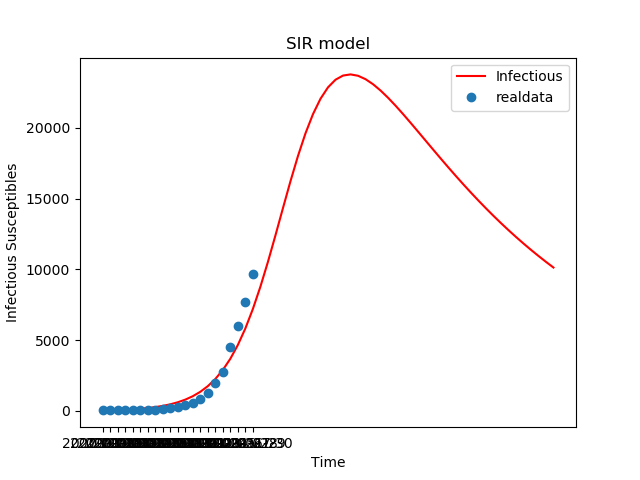
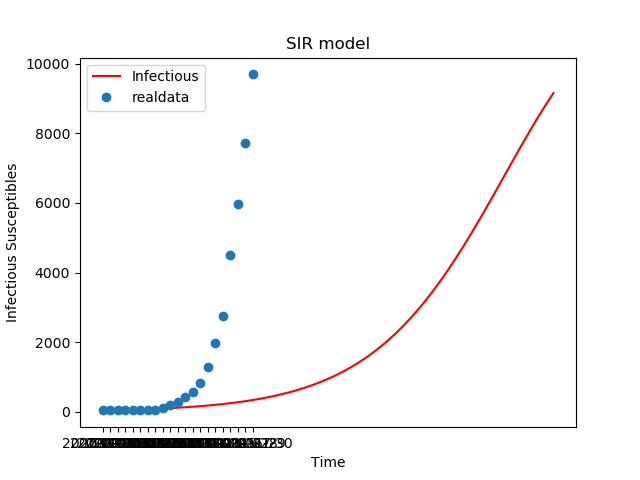
用新的方法计算，结果貌似不对

diff --git a/SIR.py b/SIR.py
@@ -78,44 +78,47 @@ if __name__ == "__main__":
 	
 	# γ值设定为0.04，即一般病程25天
 	# 用最小二乘法估计β值和初始易感人数
-#	gamma = 0.04
-#	S0 = [i for i in range(20000, 40000, 1000)]
-#	beta = [f for f in np.arange(1e-7, 1e-4, 1e-7)]
-#	
-#	# 定义偏差函数
-#	def error(res):
-#		err = (data["感染者"] - res)**2
-#		errsum = sum(err)
-#		return errsum
-#		
-	# 穷举法，找出与实际数据差的平方和最小的S0和beta值
-#	# 结果 S0 = 39000, β = 8e-6
-#	minSum = 1e10
-#	minS0 = 0.0
-#	minBeta = 0.0
-#	bestRes = None
-#	for S in S0:
-#		for b in beta:
-#			# 模型的差分方程
-#			def diff_eqs_2(INP, t):
-#				Y = np.zeros((3))
-#				V = INP
-#				Y[0] = -b * V[0] * V[1]
-#				Y[1] = b * V[0] * V[1] - gamma * V[1]
-#				Y[2] = gamma * V[1]
-#				return Y
-#			# 数值解模型方程
-#			INPUT = [S, I0, 0.0]
-#			RES = spi.odeint(diff_eqs_2, INPUT, t_range)
-#			errsum = error(RES[:21, 1])
-#			if errsum < minSum:
-#				minSum = errsum
-#				minS0 = S
-#				minBeta = b
-#				bestRes = RES
-#				print("S0=%d beta=%f minErr=%f" % (S, b, errsum))
-#				
-#	print("S0 = %d β = %f" % (minS0, minBeta))
+	gamma = 0.04
+	S0 = [i for i in range(1500, 30000, 100)]
+	
+	# 定义偏差函数
+	def error(res):
+		err = (data["感染者"] - res)**2
+		errsum = sum(err)
+		return errsum
+		
+	# 穷举法，找出最佳拟合的S0值和β值
+	minSum = 1e10
+	minS0 = 0.0
+	minBeta = 0.0
+	bestRes = None
+	for S in S0:
+		# 根据微分方程计算β值
+		S1 = S + data["感染者"][0] - data["感染者"][1] - data["治愈"][1]
+		beta = (S - S1)/(S * data["感染者"][0])
+		print(S, S1)
+		# 模型的差分方程
+		def diff_eqs_2(INP, t):
+			Y = np.zeros((3))
+			V = INP
+			Y[0] = -beta * V[0] * V[1]
+			Y[1] = beta * V[0] * V[1] - gamma * V[1]
+			Y[2] = gamma * V[1]
+			return Y
+		
+		# 数值解模型方程
+		INPUT = [S, I0, 0.0]
+		RES = spi.odeint(diff_eqs_2, INPUT, t_range)
+		errsum = error(RES[:21, 1])
+		print("S0=%d beta=%f minErr=%f" % (S, beta, errsum))
+		if errsum < minSum:
+			minSum = errsum
+			minS0 = S
+			minBeta = beta
+			bestRes = RES
+			# print("S0=%d beta=%f minErr=%f" % (S, beta, errsum))
+				
+	print("S0 = %d β = %f" % (minS0, minBeta))
 			
 	print("预测最大感染人数:%d 位置:%d" % (RES[:,1].max(), np.argmax(RES[:, 1])))
 	# 将预测值与真实值画到一起
